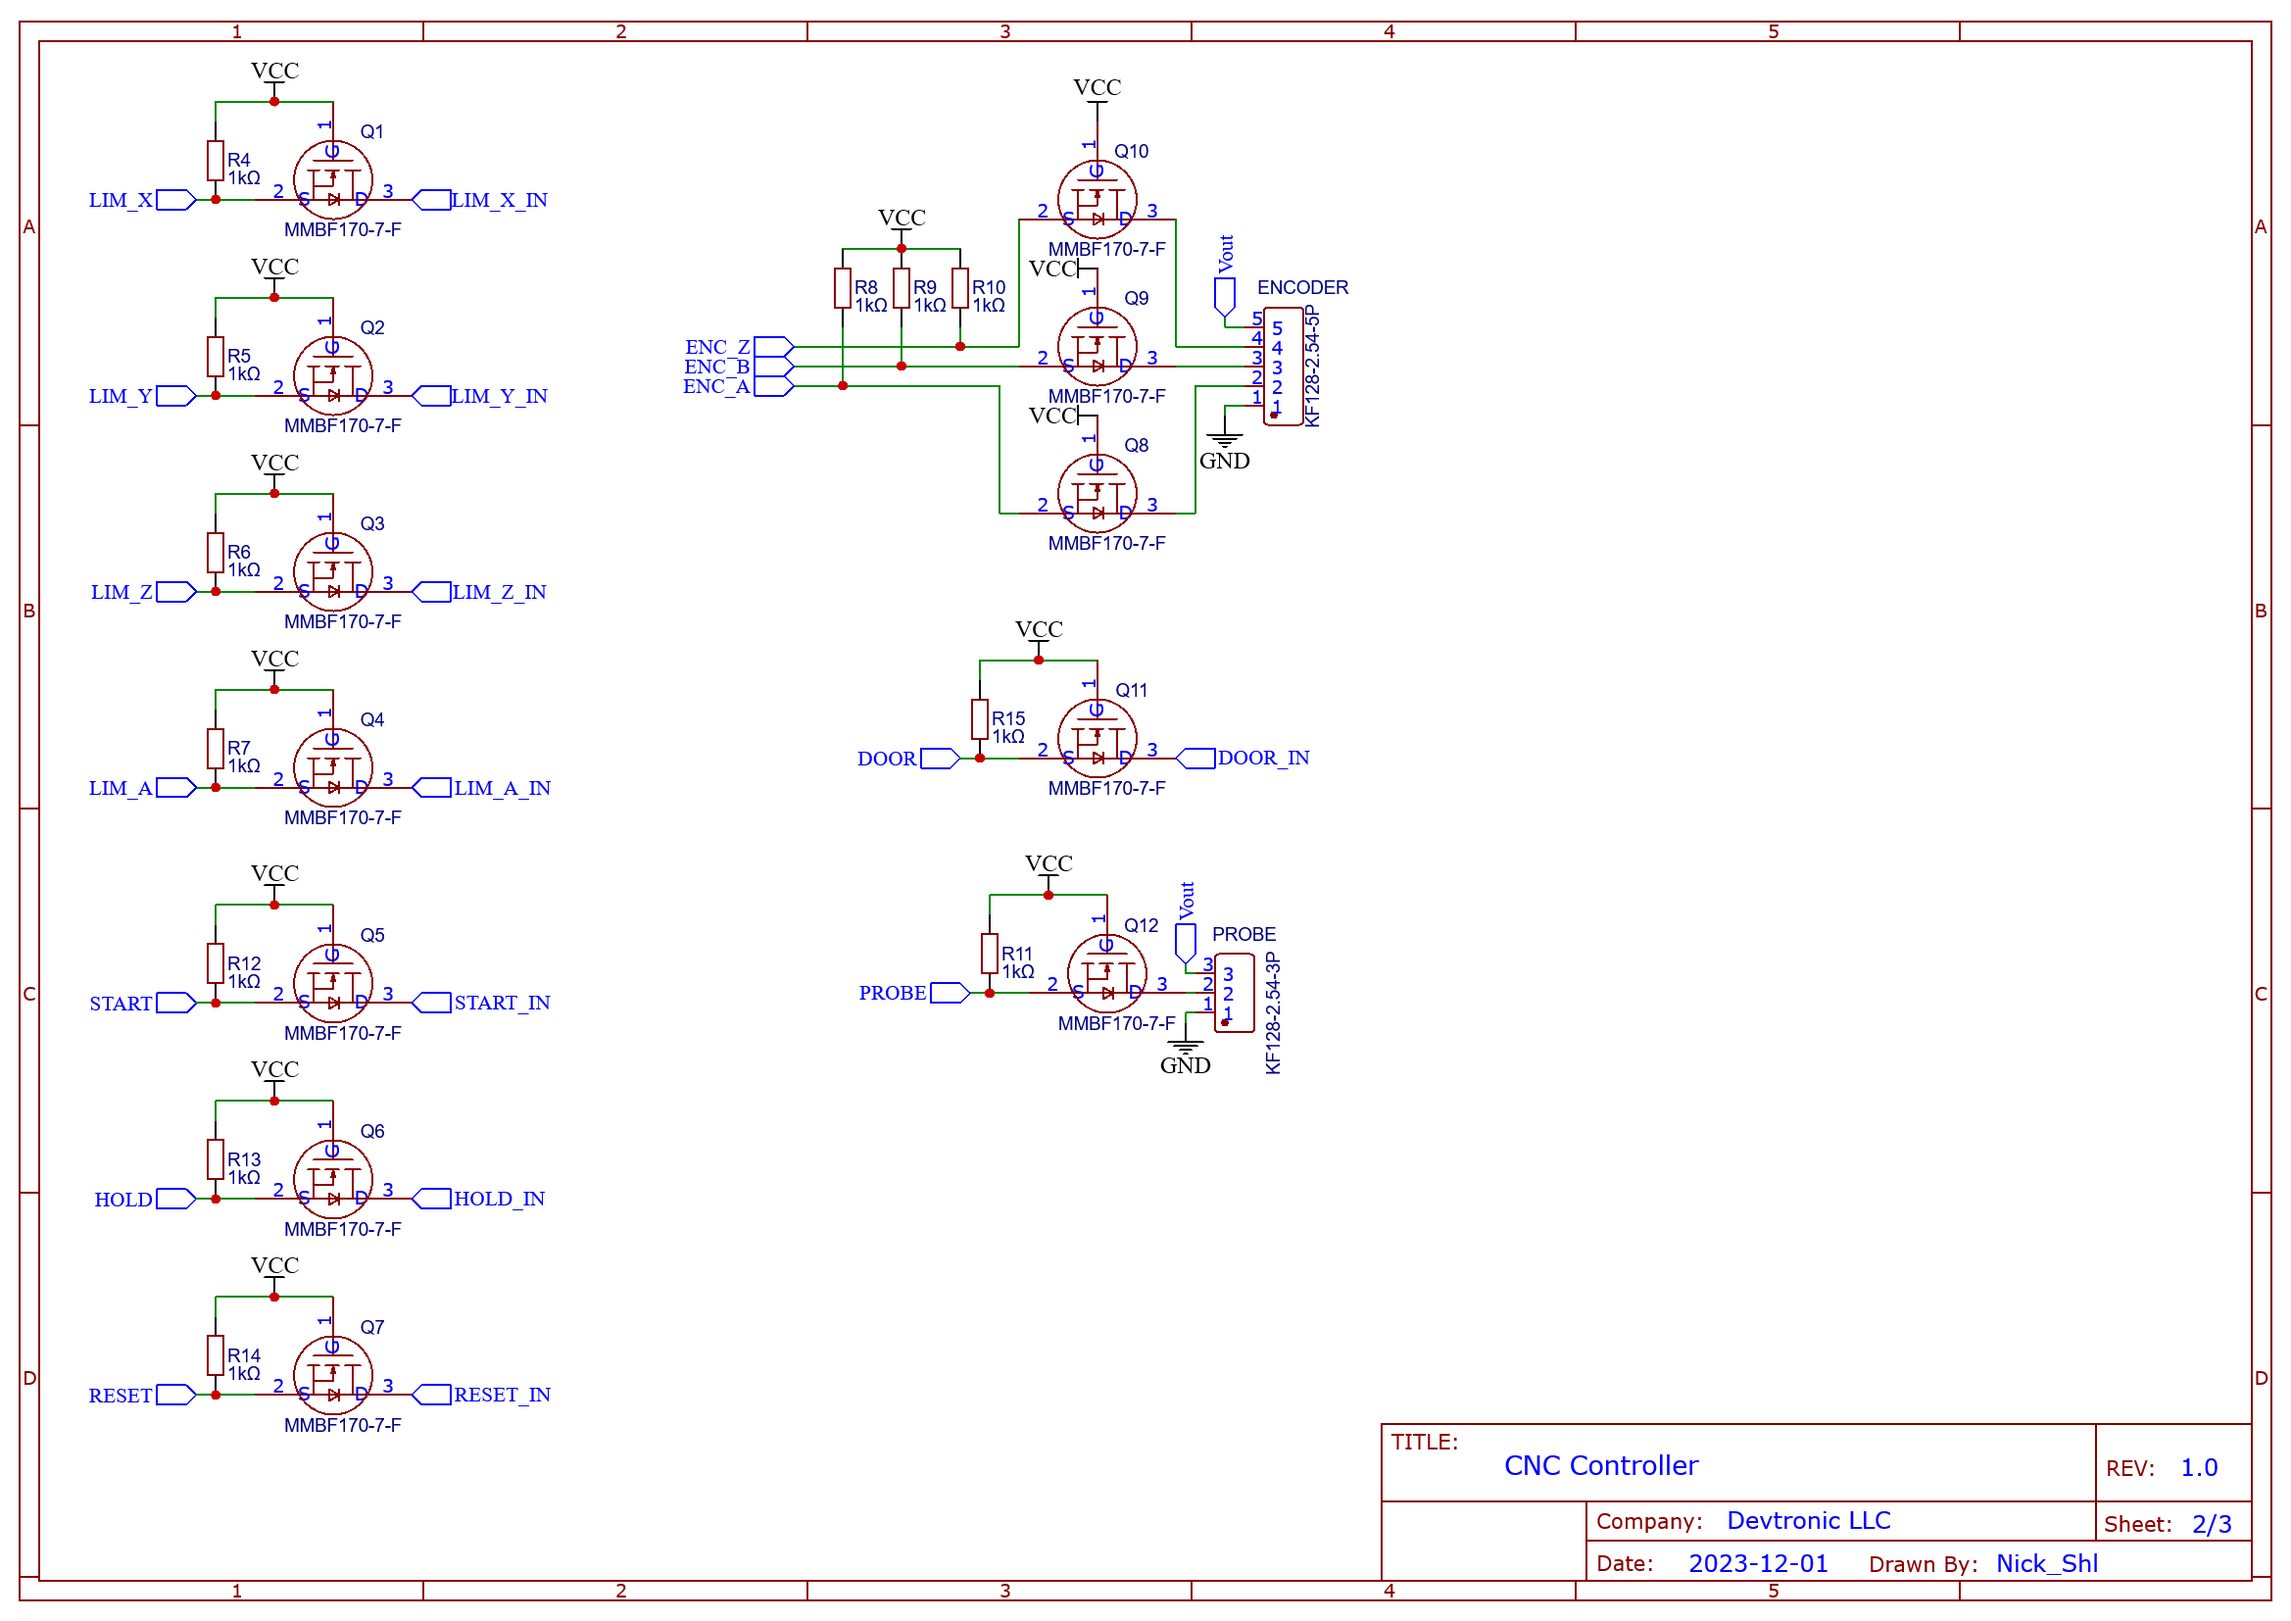
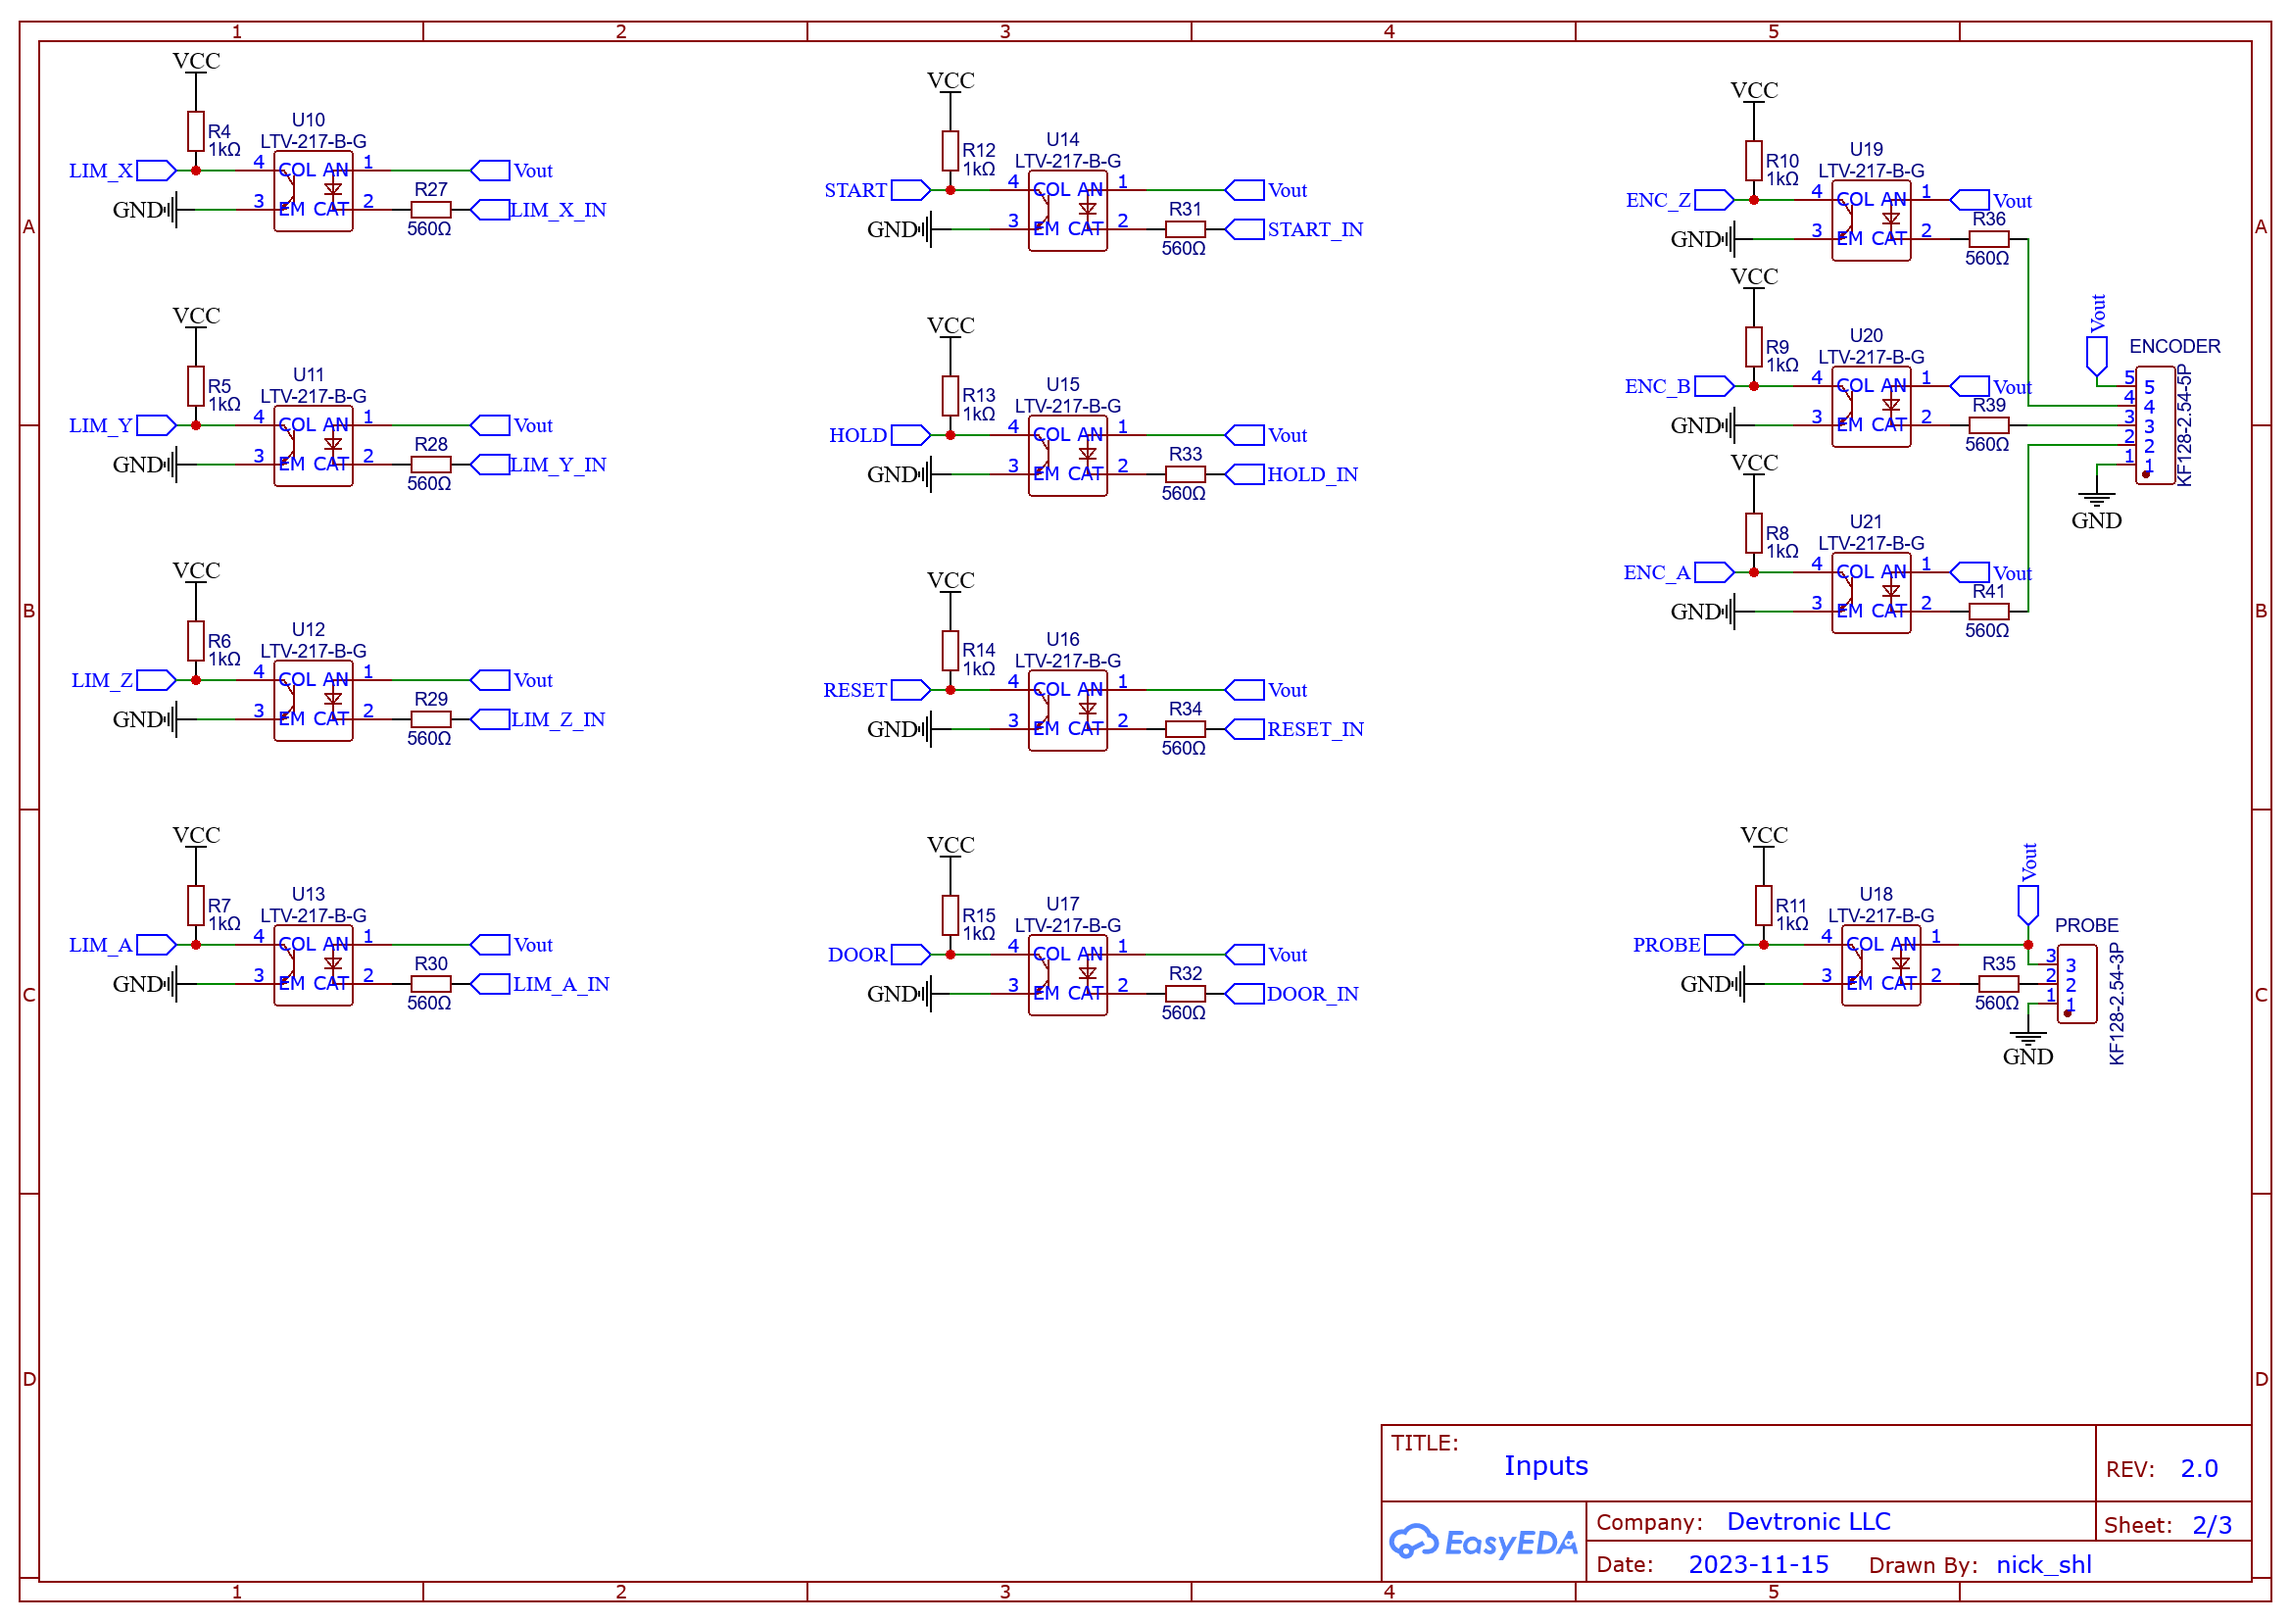
Update to V2

diff --git a/CNC-Controller-V1/README.md b/CNC-Controller-V1/README.md
@@ -1,0 +1,117 @@
+# Devtronic CNC Controller
+
+Why one more controller needed? All controllers has connectors all over the PCB. As result, to make accurate wiring it require a lot of space. If we look on stepper motor drivers, all of them has connectors only on one side which allow to stack them as "sandwich". Why not design CNC controller like that? It exactly what Devtronic CNC Controller is:
+
+![Image](Media/Devtronic_Controller_1.png "Devtronic CNC Controller")
+
+This board is everything you need to build a high functioning CNC machine.
+
+**Where to buy:** https://www.etsy.com/shop/Devtronic
+
+The key features of the Devtronic CNC controller:
+
+* Support [grblHAL](https://github.com/grblHAL)
+* 5 Axis of step/direction motor control: 5V, external stepper driver required(closed-loop recommended)
+* All inputs protected by transistor, NPN sensors should be used
+* Onboard 32KB FRAM to store setting
+* Input voltage up to 48V which allow to power CNC controller directly from power supply for NEMA23/24 stepper motors
+* UART for control CNC machine with another controller
+
+[grblHAL Web Builder](http://svn.io-engineering.com:8080/)
+
+Configuration:
+
+* Driver: **STM32F4xx**
+* Board:  **Devtronic CNC Controller (BlackPill F411)**
+
+## Dimensions
+
+**120** mm x **66** mm x **24** mm
+Approx. 4-3/4" x 2-5/8" x 1"
+
+## Pinout
+
+![Image](Media/Devtronic_Controller_2.png "Devtronic CNC Controller")
+
+### Connectors on bottom row
+
+* Power connector: configurable between 7-12V and 12-48V by jumper (-, +)
+* X motor (Direction-, Direction+, Step-, Step+)
+* Y motor (Direction-, Direction+, Step-, Step+)
+* Z motor (Direction-, Direction+, Step-, Step+)
+* Motor Enable output (Ground, Signal, Voltage)
+* Spindle control (Ground, Enable, Direction, Speed, Voltage)
+* Flood Coolant output (Ground, Signal, Voltage)
+* Encoder input (Ground, A, B, Z, Voltage)
+* Probe input (Ground, Signal, Voltage)
+* UART (Ground, RX, TX, +5V)
+* Fault input (Ground, Signal, Voltage)
+
+###  Connectors on top row
+
+* B motor (Direction-, Direction+, Step-, Step+)
+* A motor (Direction-, Direction+, Step-, Step+)
+* Flood Mist output(Ground, Signal, Voltage)
+* X Limit input (Ground, Signal, Voltage)
+* Y Limit input (Ground, Signal, Voltage)
+* Z Limit input (Ground, Signal, Voltage)
+* A Limit input (Ground, Signal, Voltage)
+* Door input (Ground, Signal, Voltage)
+* USB
+
+## Inputs
+
+All inputs protected using transistor.
+
+![Image](Media/Input.png "Logic Level Shifter")
+
+When nothing or voltage higher than +3.3V applied to input, transistor is closed and doesn't allow high voltage from input pass trough to MCU pin. When ground level applied to the input, current start to flow trough transistor internal diode. It pulls MCU pin voltage to around +0.6V(voltage drop on diode), then because of voltage difference between source and gate, transistor opens completely which pulls voltage level MCU pin to practically ground level. More on that principle in [this article](https://www.digikey.com/en/blog/logic-level-shifting-basics).
+
+Because of schematic, only **NPN sensors is recommended**. Sensors can have internal pull-up resistor.
+If mechanical switch used as endstop it should connect input terminal to GND, not to +V.
+
+## Configuration
+
+![Image](Media/Devtronic_Controller_3.png "Devtronic CNC Controller")
+
+There three configuration blocks of jumpers.
+
+### Power control
+
+This controller can be powered by three ways:
+
+1. USB: Only +5V available, spindle analog control(0-10V) will not work.
+2. +7-12V applied to PWR connector: Spindle analog control(0-10V) will work only if +12V applied.
+3. +12-48V applied to PWR connector: Input voltage reduced to +12V via DC-DC Step-Down converter.
+
+There two jumpers to control power:
+
+* **VIN**: input voltage selector, PWR for input voltage +7-12V and REG for input voltage +12-48V. When powered only from USB it recommends to remove this jumper. Default is REG.
+* **VOUT**: output voltage selector. Output voltage applied to all screw terminal marked as +V. It may be VIN voltage or +5V from linear regulator. UART connector always has +5V regardless of this jumper position. Default is +5V.
+
+Note: default position when delivered to prevent damage in case of power up without checking settings. Those jumpers should be configured for particular build.
+
+### Output control
+
+Some outputs can be configured between Push-Pull(PP) or Open Collector(OC):
+
+* **EN**: enable signal for steppers, default is PP.
+* **COOLANT MIST**: default is OC.
+* **COOLANT FLOOD**: default is OC.
+* **SPINDLE EN**: spindle enable signal, default is PP.
+* **SPINDLE DIR**: spindle direction signal, default is PP.
+* **SPINDLE PWM**: spindle PWM signal, default is PP.
+* **SPINDLE SPD**: spindle speed control method. Can be set between PWM or 0-10V. Default is 0-10V.
+ 
+Push-Pull mean that output pin will have either GND(inactive) or +5V(active) generated by buffer IC. This option sutible for external controllers.
+Open Collector mean that output pin will gave either Hi-Z state(inactive) or GND(active) via darlington array IC. This option suitable for relays.
+
+### 5th Axis/Debug control
+
+Most users don't need to touch this jumpers. If you plan to build and debug firmware yourself, then you need Serial Wire Debugger(SWD). In this case flip those jumpers into SWD position to pass SWCLK and SWDIO signals directly to BD+ and BS+. Then you can connect debug probe to those terminals. Connect debug probe GND signal to BD- or BS-.
+
+## Schematic
+
+![Image](Media/GRBL_Controller.png "Devtronic CNC Controller")
+![Image](Media/GRBL_Contrller_Inputs.png "Devtronic CNC Controller")
+![Image](Media/GRBL_Controller_Extension.png "Devtronic CNC Controller")

diff --git a/README.md b/README.md
@@ -2,27 +2,27 @@
 
 Why one more controller needed? All controllers has connectors all over the PCB. As result, to make accurate wiring it require a lot of space. If we look on stepper motor drivers, all of them has connectors only on one side which allow to stack them as "sandwich". Why not design CNC controller like that? It exactly what Devtronic CNC Controller is:
 
-![Image](Media/Devtronic_Controller_1.png "Devtronic CNC Controller")
+![Image](Media/Devtronic_Controller_1.png "Devtronic CNC Controller V2")
 
 This board is everything you need to build a high functioning CNC machine.
 
-**Where to buy:** https://www.etsy.com/shop/Devtronic
-
-The key features of the Devtronic CNC controller:
+## The key features of the Devtronic CNC controller:
 
 * Support [grblHAL](https://github.com/grblHAL)
 * 5 Axis of step/direction motor control: 5V, external stepper driver required(closed-loop recommended)
-* All inputs protected by transistor, NPN sensors should be used
+* Optocouplers used on all inputs
 * Onboard 32KB FRAM to store setting
 * Input voltage up to 48V which allow to power CNC controller directly from power supply for NEMA23/24 stepper motors
-* UART for control CNC machine with another controller
+* UART for control CNC machine with another controller(SmartPendant recommended)
 
 [grblHAL Web Builder](http://svn.io-engineering.com:8080/)
 
 Configuration:
 
 * Driver: **STM32F4xx**
-* Board:  **Devtronic CNC Controller (BlackPill F411)**
+* Board:  **Devtronic CNC Controller V2 (BlackPill F411)**
+
+**Note:** [Devtronic CNC Controller V1](CNC-Controller-V1/README.md) is obsolette. 
 
 ## Dimensions
 
@@ -61,11 +61,7 @@ Approx. 4-3/4" x 2-5/8" x 1"
 
 ## Inputs
 
-All inputs protected using transistor.
-
-![Image](Media/Input.png "Logic Level Shifter")
-
-When nothing or voltage higher than +3.3V applied to input, transistor is closed and doesn't allow high voltage from input pass trough to MCU pin. When ground level applied to the input, current start to flow trough transistor internal diode. It pulls MCU pin voltage to around +0.6V(voltage drop on diode), then because of voltage difference between source and gate, transistor opens completely which pulls voltage level MCU pin to practically ground level. More on that principle in [this article](https://www.digikey.com/en/blog/logic-level-shifting-basics).
+Optocouplers used on all inputs. Voltage used to light up LED inside optocouplers depends on output voltage configuration. If +12V is selected, optocouples will be connected to +12V and current trough LED will be about 20mA. In case of 5V current will be about 7 mA.
 
 Because of schematic, only **NPN sensors is recommended**. Sensors can have internal pull-up resistor.
 If mechanical switch used as endstop it should connect input terminal to GND, not to +V.
@@ -78,16 +74,17 @@ There three configuration blocks of jumpers.
 
 ### Power control
 
-This controller can be powered by three ways:
+This controller can be powered by two ways:
 
-1. USB: Only +5V available, spindle analog control(0-10V) will not work.
-2. +7-12V applied to PWR connector: Spindle analog control(0-10V) will work only if +12V applied.
-3. +12-48V applied to PWR connector: Input voltage reduced to +12V via DC-DC Step-Down converter.
+1. +7-12V applied to PWR connector: Spindle analog control(0-10V) will work only if +12V applied.
+2. +12-48V applied to PWR connector: Input voltage reduced to +12V via integrated DC-DC Step-Down converter.
+
+**Note:** when USB cable connected to controller, it powers BlackPill only, it is possible to communicate with controller from PC, but any functions requaired more than +3.3V will be unavailable.
 
 There two jumpers to control power:
 
-* **VIN**: input voltage selector, PWR for input voltage +7-12V and REG for input voltage +12-48V. When powered only from USB it recommends to remove this jumper. Default is REG.
-* **VOUT**: output voltage selector. Output voltage applied to all screw terminal marked as +V. It may be VIN voltage or +5V from linear regulator. UART connector always has +5V regardless of this jumper position. Default is +5V.
+* **VIN**: input voltage selector, two jumpers, should be switched as pair. PWR for input voltage +7-12V and REG for input voltage +12-48V. One jumper does actual selection, another jumper disconnects power from DC-DC converter in case if PWR used directly. Default is REG.
+* **VOUT**: output voltage selector. Output voltage applied to all screw terminal marked as +V and optocouplers. It may be +12V voltage or +5V from linear regulator. UART connector always has +5V regardless of this jumper position. Default is +5V.
 
 Note: default position when delivered to prevent damage in case of power up without checking settings. Those jumpers should be configured for particular build.
 
